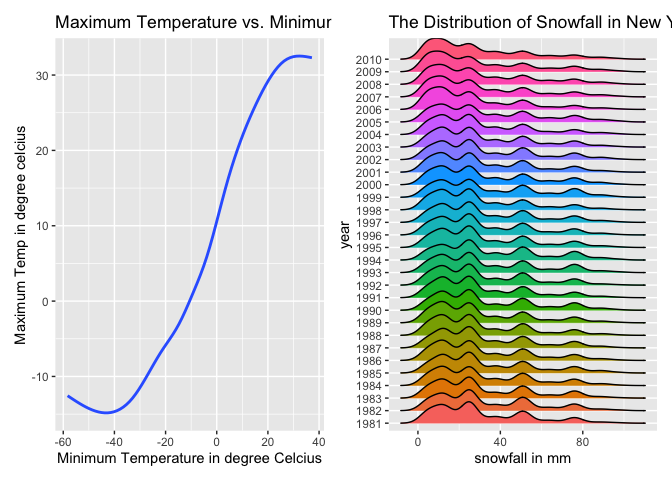
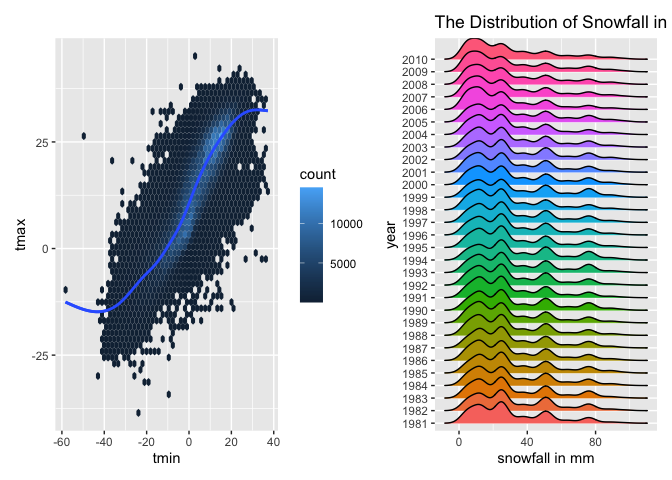
Final Version

diff --git a/p8105_hw3_jd3924.md b/p8105_hw3_jd3924.md
@@ -243,7 +243,12 @@ the data collection. Staying active the rest of the time.
 ``` r
 accel_data %>%
   ggplot(aes(x = activity_min,y = amount_of_activity,color = day)) +
-  geom_line()+
+  geom_point()
+```
+
+![](p8105_hw3_jd3924_files/figure-gfm/unnamed-chunk-9-1.png)<!-- -->
+
+``` r
   labs(
     x = "Time / Day",
     y = "Amoung of Activity",
@@ -257,7 +262,8 @@ accel_data %>%
     limits = c(0, 1440))
 ```
 
-![](p8105_hw3_jd3924_files/figure-gfm/unnamed-chunk-9-1.png)<!-- -->
+    ## NULL
+
 From the plot above, we can see that during normal bedtime, from 10 pm
 to 6 am, the activity level is low, which is reasonable. Also, we can
 see that there is always a rest period after high activity. Most of the
@@ -383,12 +389,16 @@ temp_max_min =
   drop_na() %>%
   ggplot(aes(x = tmin, y = tmax)) +
   geom_smooth(se = FALSE)+
+  geom_hex(bins = 50) +
+  geom_smooth(se = FALSE)
   labs(
     title = "Maximum Temperature vs. Minimum Temperature in NY",
     x = "Minimum Temperature in degree Celcius",
     y = "Maximum Temp in degree celcius") + 
   theme(legend.position = "bottom")
 ```
+
+    ## NULL
 
 ``` r
 snowfall_dist = 
@@ -410,10 +420,15 @@ temp_max_min + snowfall_dist
 ```
 
     ## `geom_smooth()` using method = 'gam' and formula 'y ~ s(x, bs = "cs")'
+    ## `geom_smooth()` using method = 'gam' and formula 'y ~ s(x, bs = "cs")'
 
     ## Picking joint bandwidth of 3.76
 
 ![](p8105_hw3_jd3924_files/figure-gfm/unnamed-chunk-16-1.png)<!-- -->
+From the plot on the left side is tmax vs. tmin, we can see the common
+temperature range for New York City. From the plot on the right side is
+the distribution of Snowfall in NY, we can see that the distribution of
+snowfall does not have big changes since 1981 till 2010.
 
 ``` r
 ny_noaa_df %>%
